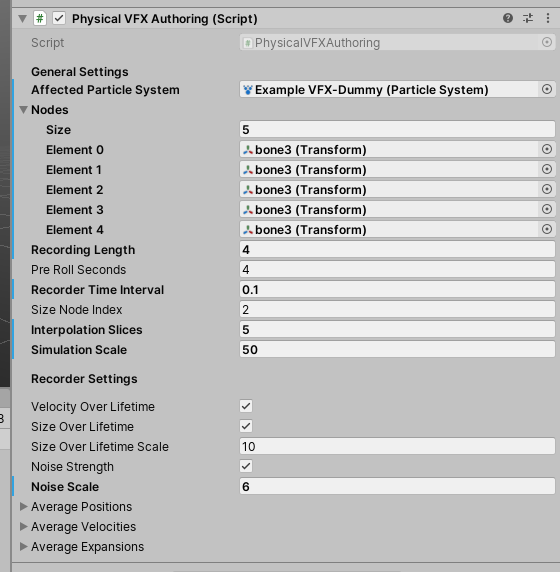
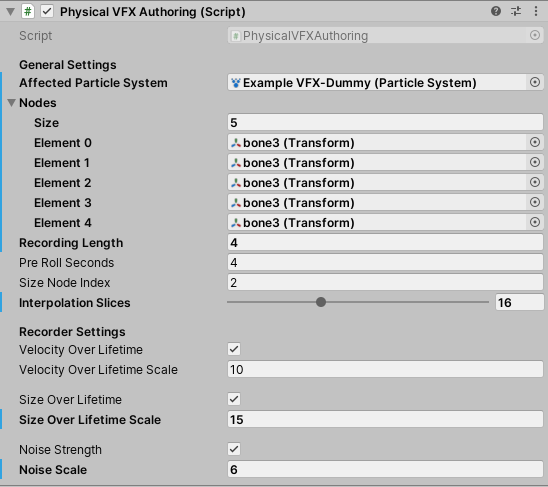
cleaned up the script a bit

Changed region(s): [[0.0, 0.0, 1.0, 1.0], [0.4033, 0.1232, 0.9927, 0.6468], [0.9617, 0.0616, 0.9927, 0.0924]]

diff --git a/Assets/PhysicalVFXAuthoring/Scripts/PhysicalVFXAuthoring.cs b/Assets/PhysicalVFXAuthoring/Scripts/PhysicalVFXAuthoring.cs
@@ -23,43 +23,41 @@ public class PhysicalVFXAuthoring : MonoBehaviour
     [SerializeField]
     int preRollSeconds = 4;
 
-    [Tooltip("Time interval between frames where positional data is recorded. You shouldn't really change this.")]
-    [SerializeField]
-    float recorderTimeInterval = 0.2f;
-
     [Tooltip("The node index that informs scale of the particle. On a finger, 2 is most likely the middle finger.")]
     [SerializeField]
     int sizeNodeIndex = 2;
 
     [Tooltip("How many slices of the recorded data will be used to generate the particle system curves.")]
     [SerializeField]
-    int interpolationSlices = 3;
+    [Range(3, 40)]
+    int interpolationSlices = 10;
 
-    [Tooltip("Simulation scale applied to the various forces")]
-    [SerializeField]
-    float simulationScale = 10f;
-
-
-    [Space(10)]
     [Header("Recorder Settings")]
 
     [SerializeField]
     bool velocityOverLifetime = true;
     [SerializeField]
+    float velocityOverLifetimeScale = 10f;
+
+    [Space(10)]
+
+    [SerializeField]
     bool sizeOverLifetime = true;
-    [Tooltip("Size Scale")]
     [SerializeField]
     float sizeOverLifetimeScale = 1f;
+
+    [Space(10)]
+
     [SerializeField]
     bool noiseStrength = true;
     [SerializeField]
     float noiseScale = 1f;
 
-    // Internal Data 
+    // Dataviz
 
-    public List<Vector3> averagePositions = new List<Vector3>();
-    public List<Vector3> averageVelocities = new List<Vector3>();
-    public List<float> averageExpansions = new List<float>();
+    List<Vector3> averagePositions = new List<Vector3>();
+    List<Vector3> averageVelocities = new List<Vector3>();
+    List<float> averageExpansions = new List<float>();
 
     void Start()
     {
@@ -84,7 +82,7 @@ public class PhysicalVFXAuthoring : MonoBehaviour
     {
         CancelInvoke("PreRoll");
         Debug.Log("Started Recording Physical VFX Authoring Data!");
-        InvokeRepeating("RecordFrame", 0f, recorderTimeInterval);
+        InvokeRepeating("RecordFrame", 0f, 0.1f);
     }
 
     void StopRecording()
@@ -97,7 +95,7 @@ public class PhysicalVFXAuthoring : MonoBehaviour
 
     void RecordFrame()
     {
-        recordingLength -= recorderTimeInterval;
+        recordingLength -= 0.1f;
 
         // First we compute base node positions
         Vector3[] nodePositions = new Vector3[nodes.Length];
@@ -176,9 +174,9 @@ public class PhysicalVFXAuthoring : MonoBehaviour
 
             if (velocityOverLifetime)
             {
-                volCurveX.AddKey(relativePosition, averageVelocities[sampledFrame].x * simulationScale);
-                volCurveY.AddKey(relativePosition, averageVelocities[sampledFrame].y * simulationScale);
-                volCurveZ.AddKey(relativePosition, averageVelocities[sampledFrame].z * simulationScale);
+                volCurveX.AddKey(relativePosition, averageVelocities[sampledFrame].x * velocityOverLifetimeScale);
+                volCurveY.AddKey(relativePosition, averageVelocities[sampledFrame].y * velocityOverLifetimeScale);
+                volCurveZ.AddKey(relativePosition, averageVelocities[sampledFrame].z * velocityOverLifetimeScale);
             }
 
             if (sizeOverLifetime)

diff --git a/README.md b/README.md
@@ -21,12 +21,12 @@ With this small Unity package, you can now use your Leap Motion (mine was gather
 - The gameobjects that will affect the final animations (here called nodes)
 - The recording length, preroll length and recorder framerate
 - The size node index - this takes distance from the first node to this node to scale the system as we record. With the demo setup, this matches the middle finger.
-- The interpolation slices - this is how many keys the final animation will have. somewhere in the 20s is good.
 - The various scales and features of the different things you can record.
 
-3. Press record, watch the console for prerool and move! Once it stops recording changes with be applied automatically.
+3. Press record, watch the console for preroll and move! Once it stops recording changes with be applied automatically.
 
 ### Possible Future Iterations
+- Oculus Quest Hand Tracking (if it makes it with the Quest Link)
 - HDRP VFX Graph Compatibility
 - Unreal Version
 
